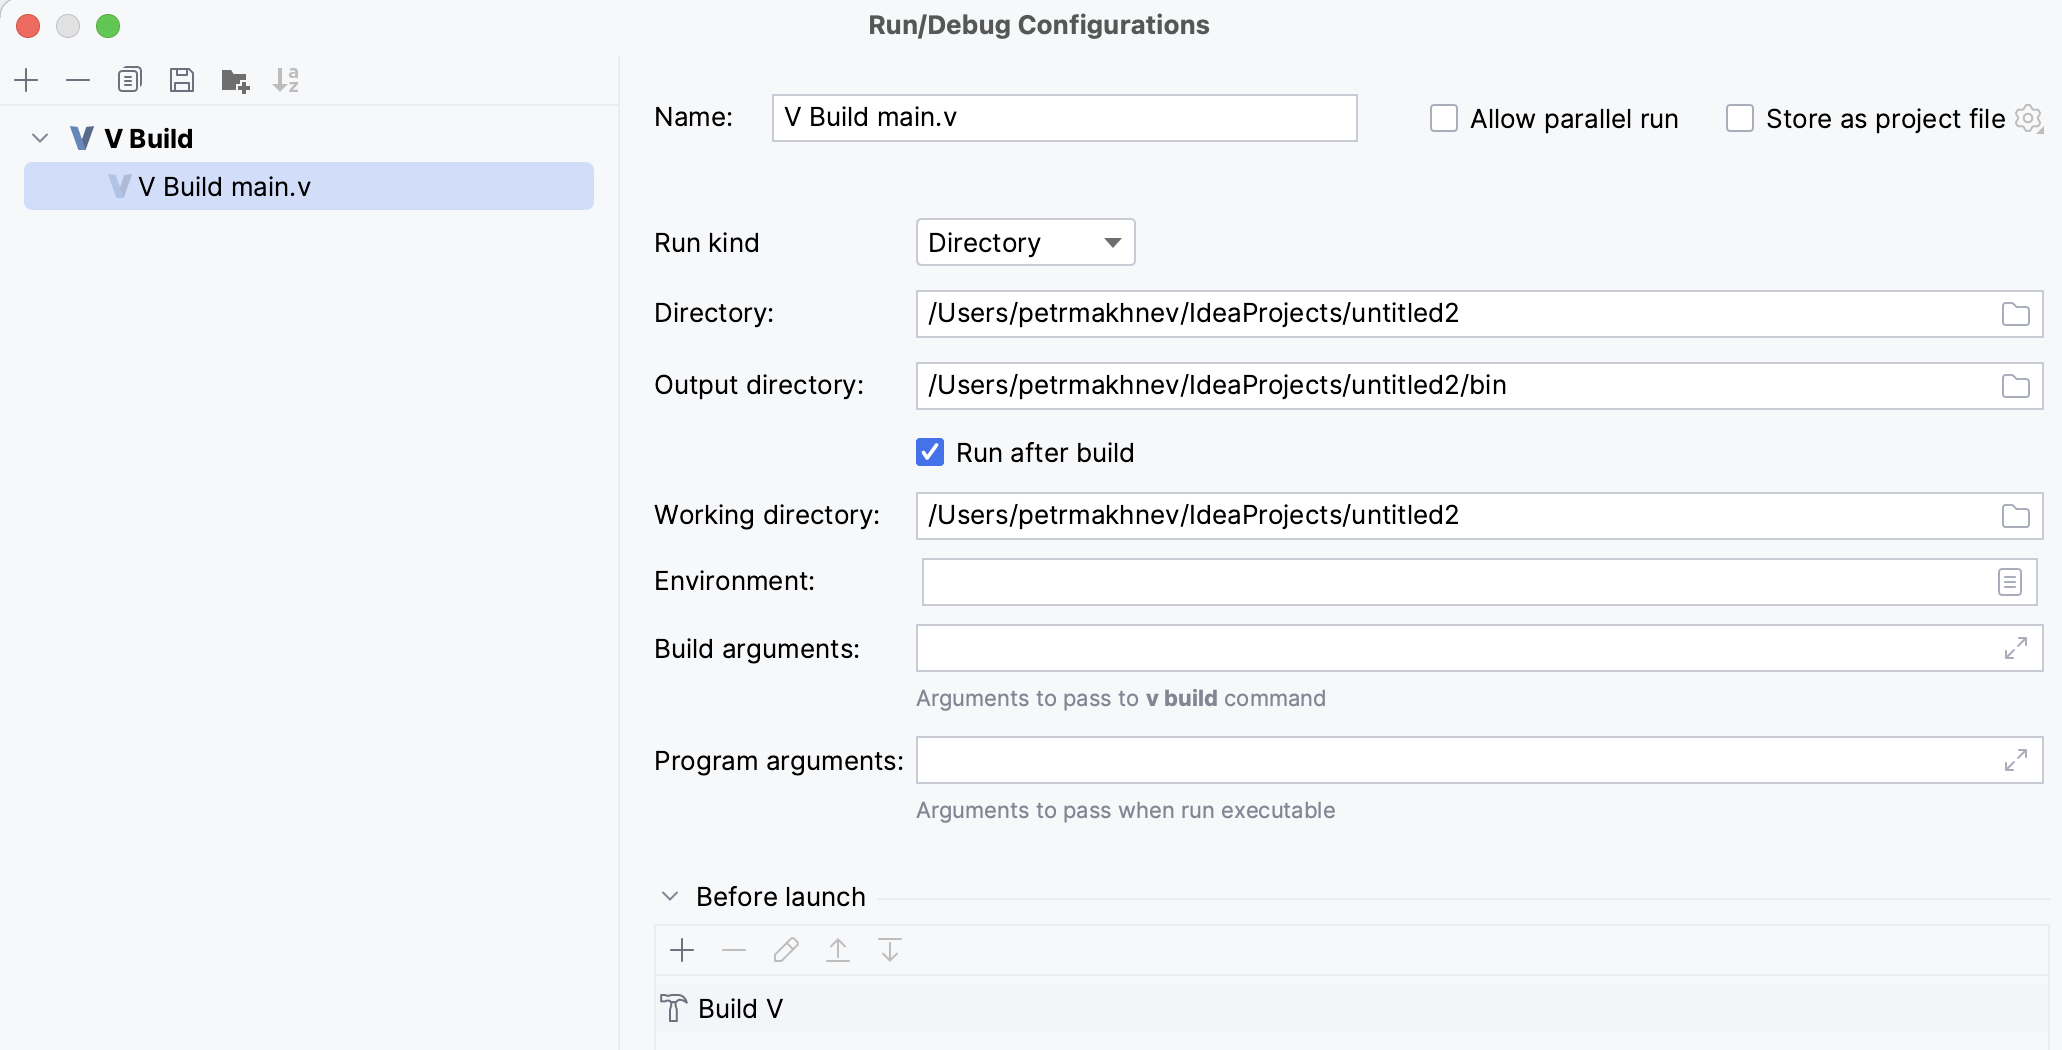
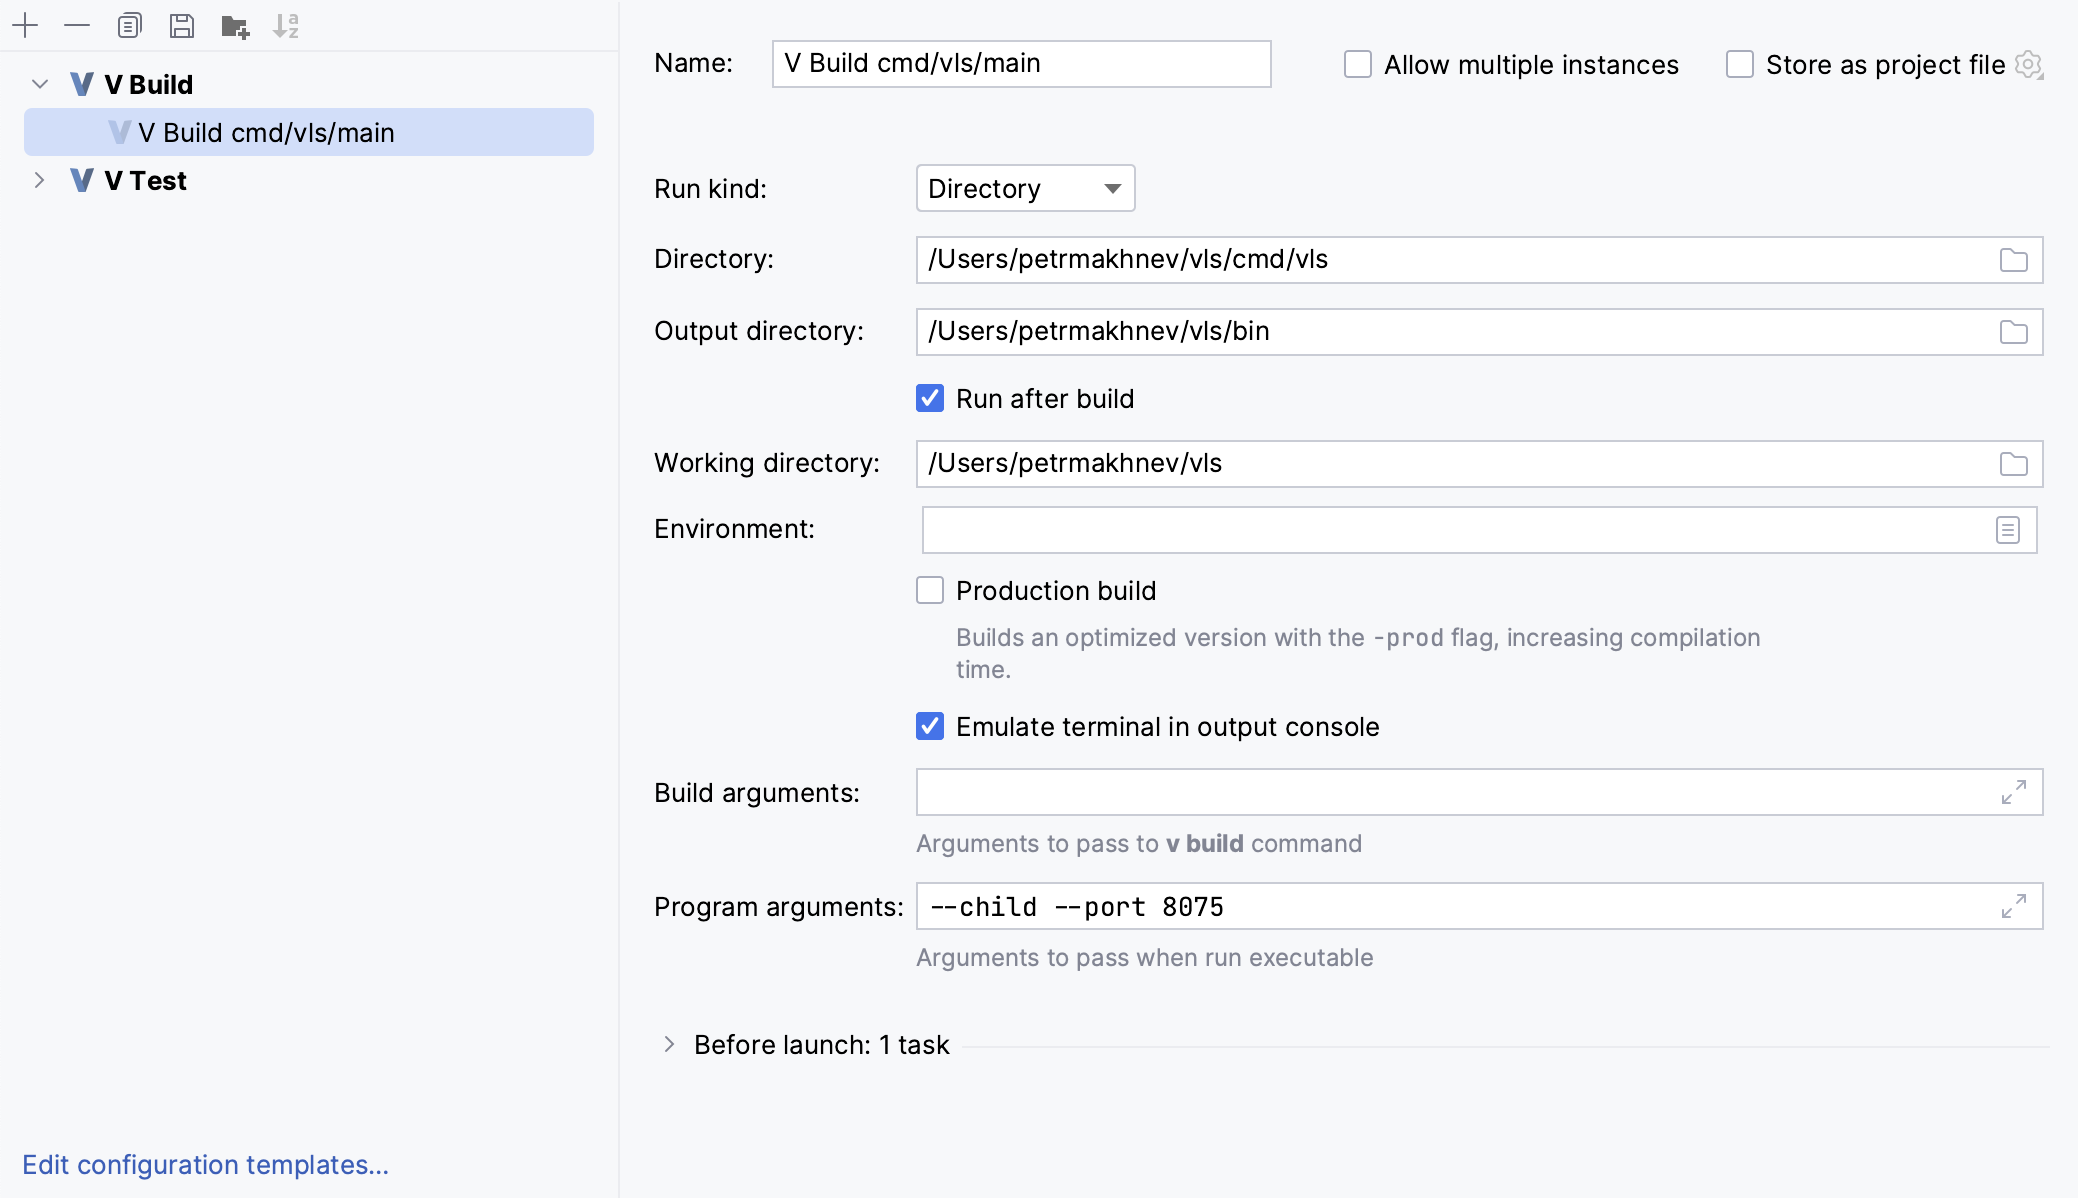
update Building article

diff --git a/src/topics/Building.md b/src/topics/Building.md
@@ -6,9 +6,13 @@ Use one the following options to run project:
 
   ![](run-gutter-icon.png){width=700 border-effect="line"}
 
-- Use the context menu in Project view (for a module or the whole project):
+- Use the context menu in file:
 
   ![](run-context-menu.png){width=700 border-effect="line"}
+
+- In IntelliJ IDEA, you can also run the current file through predefined **Current File** run configuration:
+
+  ![](predefined-run-current-file.png){width=700 border-effect="line"}
 
 When a build action is called, the IDE opens the **Build** tool window to display the process and the result of building on the **Build Output** tab:
 
@@ -29,10 +33,14 @@ You can find them in the main menu in **Run | Edit Configurations...**:
 
 ![](configurations-settings.png){width=700 border-effect="line"}
 
-By default, when you run a project build, it builds the project from the entire folder, not just from the current file.
-To change this in **Run kind** select _File_ and click **Apply**.
-Now when you run the build, it will only build the current file.
+Let's look at what each field is responsible for:
 
-If you don't want the IDE to run the resulting binary after the build, clear **Run after build** checkbox.
-
-You can configure launch arguments by specifying them in the **Program arguments** field. Also you can configure additional build parameters by specifying them in the **Build arguments** field.
+1. **Run kind**: chooses how to run the project, the default is **Directory**, so V will build the whole module from folder and run it. If you only want to run one file then select **File**.
+2. **Output directory**: sets the path where the compiled binary will be placed. By default, this is the **bin** folder at the root of the project.
+3. **Run after build**: determines if the project will run after build. Enabled by default.
+4. **Working directory**: sets the working directory for the project to run. By default, this is the project root.
+5. **Environment**: sets the environment variables for the project to run. The default is empty.
+6. **Production build**: determines whether the project will be built in production mode. In this mode, the project takes longer to build because the compiler applies various optimizations to make the program faster. Disabled by default.
+7. **Emulate terminal in output console**: determines if the built-in IDE console will emulate a real terminal when it starts up. This can be useful if you are running a program that interacts with the cursor in the terminal, such as moving the cursor down or left. Enabled by default.
+8. **Build arguments**: sets the build arguments. Use this field if you want to pass extra arguments to the compiler, for example if you want to pass the `-no-bound-checks` option when building. The default is empty.
+9. **Program arguments**: sets the command line arguments to be passed when running the binary. Use this field if your program takes some arguments, such as `./your-program -f file.txt`. The default is empty.

diff --git a/src/topics/Testing.md b/src/topics/Testing.md
@@ -13,4 +13,4 @@ Use one the following options to start tests:
   name, respectively.
 - Use the context menu in Project view (for a module or the whole project):
 
-  ![](run-context-menu.png){width=700 border-effect="line"}
+  ![](run-context-menu-in-project-view.png){width=700 border-effect="line"}
